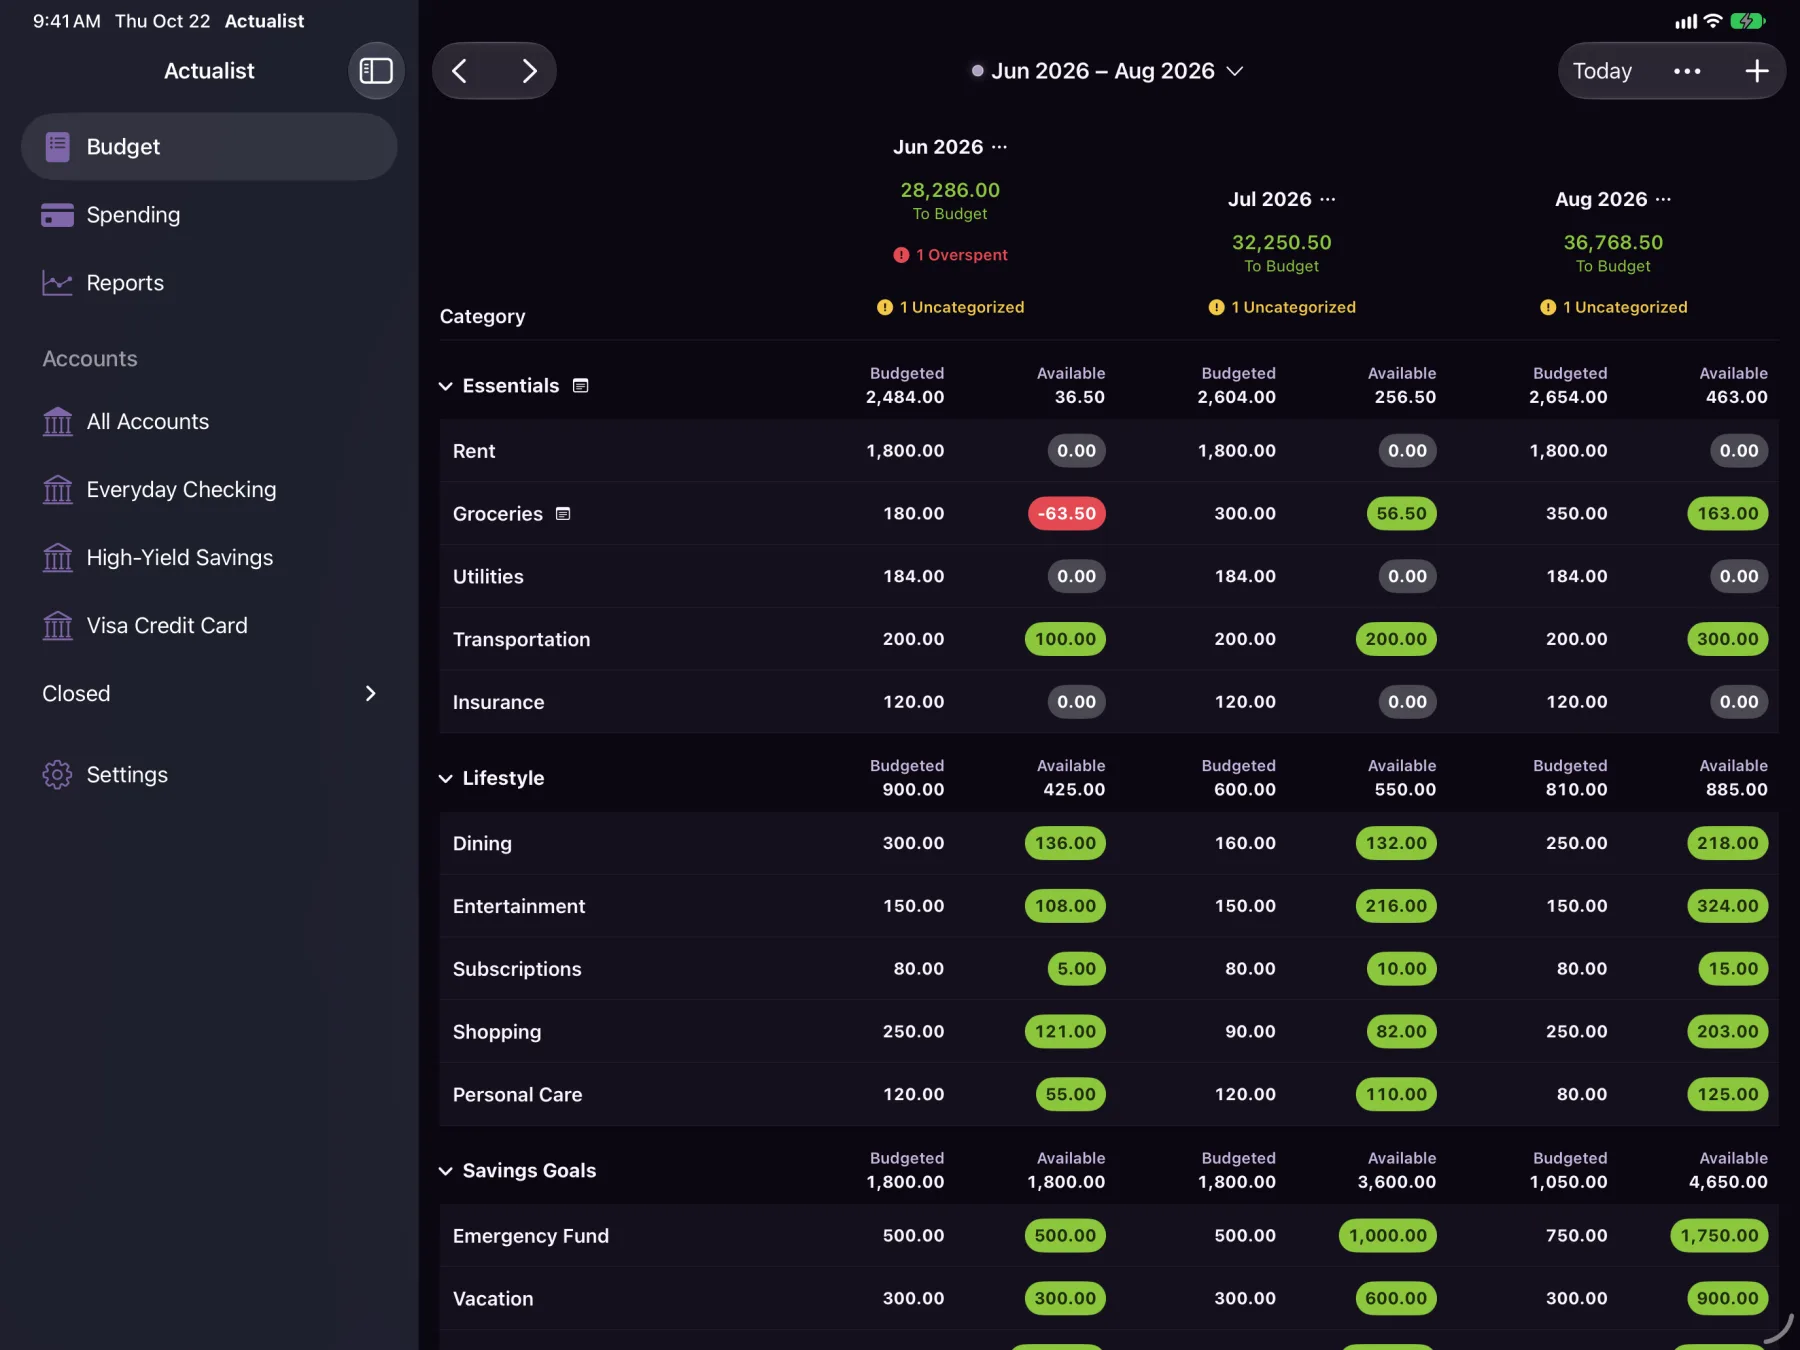
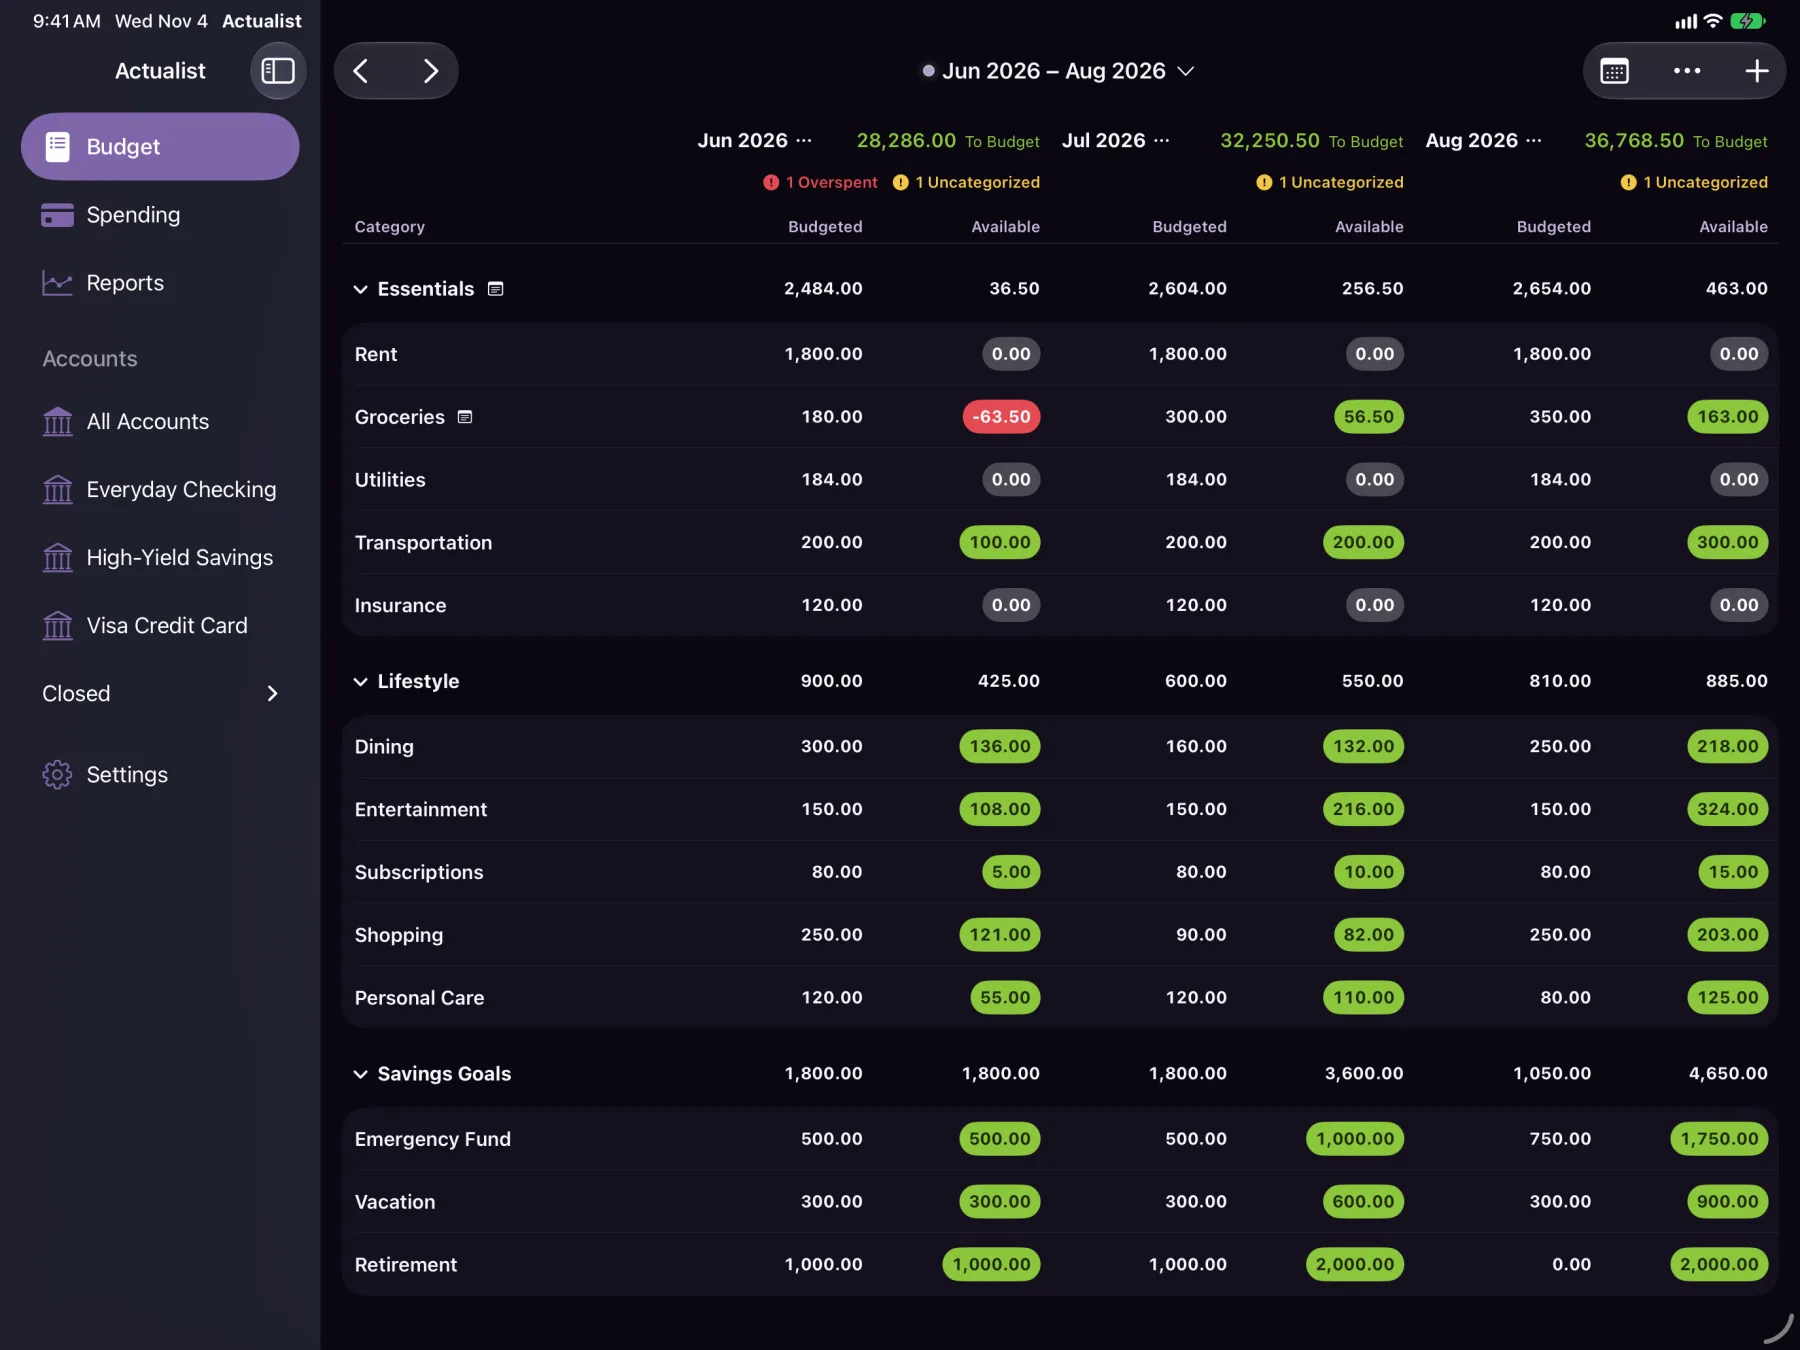
copy: refresh Transactions and Schedules rows and iPad Budget shot for 0.8.1 (27)

diff --git a/public/index.html b/public/index.html
@@ -128,8 +128,8 @@
         <table class="matrix">
           <tbody>
             <tr><th scope="row">Envelope &amp; tracking budgets</th><td><span class="state yes">Yes</span></td><td>Move money, hold, templates, rollover</td></tr>
-            <tr><th scope="row">Transactions</th><td><span class="state yes">Yes</span></td><td>Create, edit, split, transfer, bulk edit, CSV import and export</td></tr>
-            <tr><th scope="row">Schedules</th><td><span class="state yes">Yes</span></td><td>Create, edit, skip, and post</td></tr>
+            <tr><th scope="row">Transactions</th><td><span class="state yes">Yes</span></td><td>Create, edit, split, transfer, share, bulk edit, CSV import and export</td></tr>
+            <tr><th scope="row">Schedules</th><td><span class="state yes">Yes</span></td><td>Create, edit, skip, complete, and post</td></tr>
             <tr><th scope="row">Accounts</th><td><span class="state yes">Yes</span></td><td>Add, rename, close, reopen, reconcile</td></tr>
             <tr><th scope="row">Reports</th><td><span class="state yes">Yes</span></td><td>Net worth, cash flow, spending, with drill-down</td></tr>
             <tr><th scope="row">Widgets, Siri &amp; Shortcuts</th><td><span class="state yes">Yes</span></td><td></td></tr>
